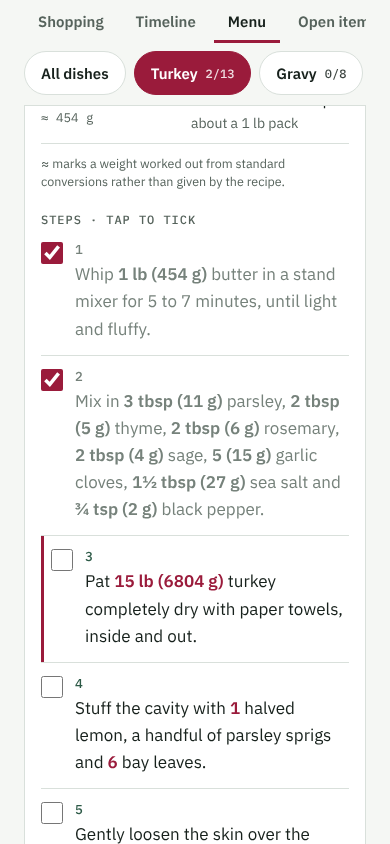
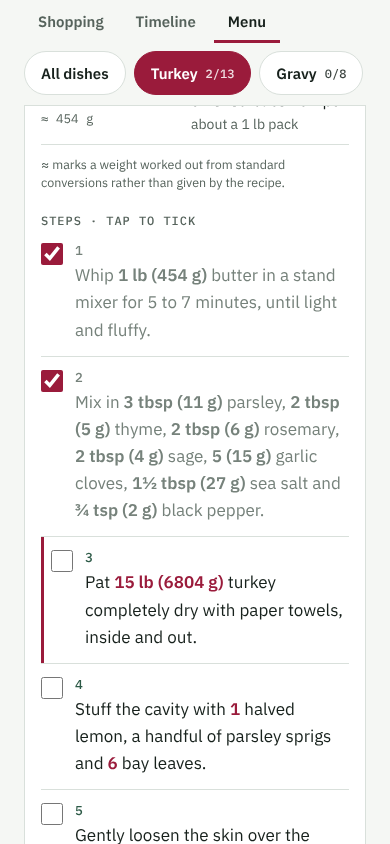
Remove the Open items tab and the Recipe set badges
Claude-Session: https://claude.ai/code/session_01832jKBQAy3o52WFWm23DAr

diff --git a/site/app.js b/site/app.js
@@ -1,7 +1,7 @@
 // When changing app.js or app.css, bump the ?v= number in index.html and CACHE in sw.js.
 // Christmas Dinner: renders one year's plan from years/<year>.json and keeps ticks per year.
 (function () {
-  var TABS = ["shopping", "timeline", "menu", "open"];
+  var TABS = ["shopping", "timeline", "menu"];
   var LSH = "cd-hide-v1";
   var plan = null;      // the loaded year file
   var year = null;      // the year being viewed (may differ from plan.year when copied forward)
@@ -224,16 +224,12 @@
     document.getElementById("p-menu").innerHTML = '<div id="mlist">' + lead +
       (plan.menu.some(function (d) { return d.recipe; }) ? '<p class="note-top">Tap Cook this to open a recipe. Each one you open gets a tab in the bar at the top, so you can jump between dishes and land back where you were.</p>' : '') +
       plan.menu.map(function (d) {
-        var ok = d.status === "set";
         return '<article class="dish"><div class="dtop"><h2 class="dname">' + (d.url ? '<a href="' + esc(d.url) + '">' + esc(d.name) + '</a>' : esc(d.name)) +
-          '</h2><span class="status' + (ok ? '' : ' need') + '">' + esc(ok ? "Recipe set" : d.status) + '</span></div>' +
+          '</h2></div>' +
           d.lines.map(function (x) { return '<p class="dline"><b>' + esc(x.label) + ':</b> ' + esc(x.text) + '</p>'; }).join("") +
           (d.recipe ? '<div class="dact"><button class="btn open" type="button" data-cook="' + esc(d.recipe.id) + '">Cook this</button><span class="dprog" id="prog-' + esc(d.recipe.id) + '"></span></div>' : '') +
           '</article>';
       }).join("") + '</div><div id="mrec" hidden></div>';
-    document.getElementById("p-open").innerHTML = lead + barHTML("open", "items") +
-      '<p class="note-top">Decisions still to make. Tick them off once settled.</p>' +
-      '<div class="group">' + plan.open.map(row).join("") + '</div>';
 
     var links = plan.menu.filter(function (d) { return d.url; }).map(function (d) { return '<a href="' + esc(d.url) + '">' + esc(d.name.toLowerCase()) + '</a>'; });
     document.getElementById("footer").innerHTML = (links.length ? 'Recipes: ' + links.join(", ") + '. ' : '') +
@@ -336,7 +332,6 @@
     var s = allItems(plan.shopping), p = allItems(plan.timeline);
     document.getElementById("sum-shop").textContent = counts(s) + " of " + s.length + " items bought";
     document.getElementById("sum-plan").textContent = counts(p) + " of " + p.length + " tasks done";
-    document.getElementById("sum-open").textContent = counts(plan.open) + " of " + plan.open.length + " settled";
   }
 
   function toast(msg) {

diff --git a/site/index.html b/site/index.html
@@ -13,7 +13,7 @@
 <link rel="preconnect" href="https://fonts.googleapis.com">
 <link rel="preconnect" href="https://fonts.gstatic.com" crossorigin>
 <link href="https://fonts.googleapis.com/css2?family=Bricolage+Grotesque:opsz,wght@12..96,600;12..96,700&family=IBM+Plex+Sans:wght@400;500;600&family=IBM+Plex+Mono:wght@400;500&display=swap" rel="stylesheet">
-<link rel="stylesheet" href="app.css?v=6">
+<link rel="stylesheet" href="app.css?v=7">
 </head>
 <body>
 <div class="wrap">
@@ -29,13 +29,11 @@
     <button class="tab" role="tab" id="t-shopping" data-tab="shopping" aria-selected="true" aria-controls="p-shopping">Shopping</button>
     <button class="tab" role="tab" id="t-timeline" data-tab="timeline" aria-selected="false" aria-controls="p-timeline">Timeline</button>
     <button class="tab" role="tab" id="t-menu" data-tab="menu" aria-selected="false" aria-controls="p-menu">Menu</button>
-    <button class="tab" role="tab" id="t-open" data-tab="open" aria-selected="false" aria-controls="p-open">Open items</button>
   </div><div class="cookbar" id="cookbar" role="toolbar" aria-label="Recipes you're cooking" hidden></div></nav>
   <main id="main">
     <section class="panel" id="p-shopping" role="tabpanel" aria-labelledby="t-shopping"></section>
     <section class="panel" id="p-timeline" role="tabpanel" aria-labelledby="t-timeline" hidden></section>
     <section class="panel" id="p-menu" role="tabpanel" aria-labelledby="t-menu" hidden></section>
-    <section class="panel" id="p-open" role="tabpanel" aria-labelledby="t-open" hidden></section>
   </main>
   <footer id="footer"></footer>
 </div>
@@ -54,6 +52,6 @@
     </div>
   </form>
 </dialog>
-<script src="app.js?v=6"></script>
+<script src="app.js?v=7"></script>
 </body>
 </html>

diff --git a/site/sw.js b/site/sw.js
@@ -1,6 +1,6 @@
 // Offline support: network first so updates show up, cached copy when offline.
-var CACHE = "cd-v6";
-var SHELL = ["./", "index.html", "app.css?v=6", "app.js?v=6", "manifest.webmanifest", "icon.svg", "years/index.json"];
+var CACHE = "cd-v7";
+var SHELL = ["./", "index.html", "app.css?v=7", "app.js?v=7", "manifest.webmanifest", "icon.svg", "years/index.json"];
 
 self.addEventListener("install", function (e) {
   e.waitUntil(caches.open(CACHE).then(function (c) { return c.addAll(SHELL); }).then(function () { return self.skipWaiting(); }));
